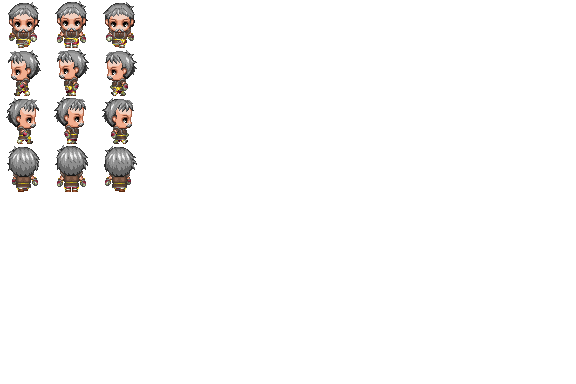
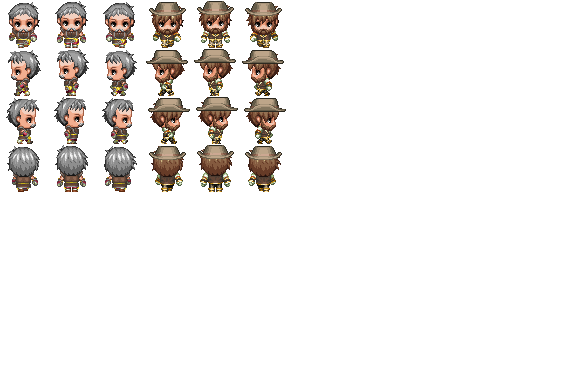
Thistlewick's farmer drawn: his own face, not Fenwick Splint's
He wore People2:6, Splint's goggles and all. Now Gen_People18:1 from the
Character Generator: a straw hat, brown side-whiskers, a waistcoat over
his shirt. Splint and Mr Budge keep the stock face.

Claude-Session: https://claude.ai/code/session_01DT7LL7HdDHkfFQ7pwiGzCu

Changed region(s): [[0.25, 0.0, 0.5, 0.5]]

diff --git a/build/story.py b/build/story.py
@@ -41,7 +41,7 @@ FACES = {
     "Councillor": ("People1", 3),
     "Councillor Fenn": ("People4", 2),
     "Old Man": ("Gen_People16", 6),
-    "Farmer": ("People2", 6),
+    "Farmer": ("Gen_People18", 1),       # was Splint's (Mike, 5 Nov)
     "Fisher": ("People1", 4),
     "Child": ("Gen_People16", 7),
     "Innkeeper": ("People2", 3),
@@ -205,9 +205,10 @@ FACES = {
     # one line in one room. The nine heroes take the Actor-sheet faces that no
     # companion and nobody else in the game is wearing, which is the joke - a
     # hero is a hero is a hero. The two farmers are a married couple, one
-    # rescue between them; Mr Budge is the `Farmer`'s face, since he is one,
-    # and Mrs Budge the bonnet. Mr Pilbeam, who was only passing, has the most
-    # ordinary face in the box.
+    # rescue between them; Mr Budge has the stock farmer's face, People2:6,
+    # since he is one (Thistlewick's `Farmer` is drawn now, and Splint keeps
+    # it too), and Mrs Budge the bonnet. Mr Pilbeam, who was only passing,
+    # has the most ordinary face in the box.
     "Tamsin": ("Actor1", 1), "Brannoc": ("Actor1", 2), "Kit": ("Actor1", 3),
     "Osric": ("Actor1", 6), "Aurel": ("Actor2", 0), "Hild": ("Actor2", 1),
     "Morwen": ("Actor2", 5), "Leof": ("Actor2", 6), "Valen": ("Actor3", 2),

diff --git a/build/art.py b/build/art.py
@@ -384,6 +384,10 @@ SHEETS = {
         # (Mike, 4 Nov). Sixty-odd, a sword-and-horse yard: grey, cropped,
         # a waxed moustache, a leather jerkin in brown and grey.
         (0, "fellow-blunt.json"),       # not ready; in the stone
+        # Thistlewick's farmer, Bram's actual boss, who wore Fenwick Splint's
+        # face - goggles and all (Mike, 5 Nov). A straw hat, side-whiskers
+        # and a waistcoat; the weevils have had a good look.
+        (1, "thistlewick-farmer.json"),  # who's doing the west field?
     ],
 }
 

diff --git a/build/village.py b/build/village.py
@@ -334,7 +334,7 @@ def village_events():
         "and the Dark Lord's got a tower. Only one of",
         "those is going to spoil my supper."])
     add(q_hob.owned("farmer", S.npc(16, "Farmer", 13, 19, farmer,  # HOB-1
-                                  "People2", 6)))
+                                  *S.sprite("Farmer"))))
 
     # -- 17: the scarecrow -----------------------------------------------------
     add(S.sign(17, "Scarecrow", 18, 24, [
